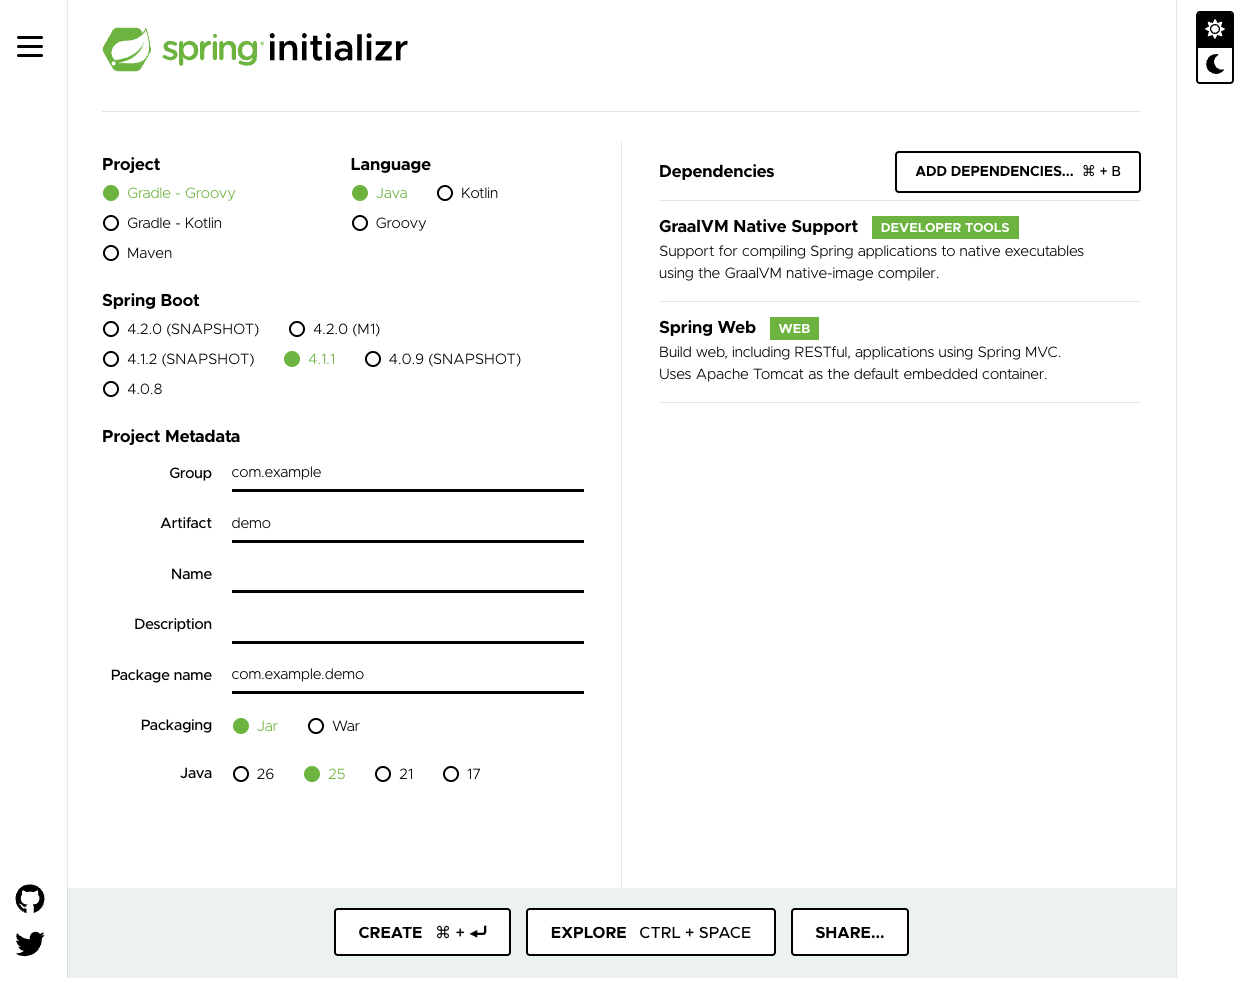
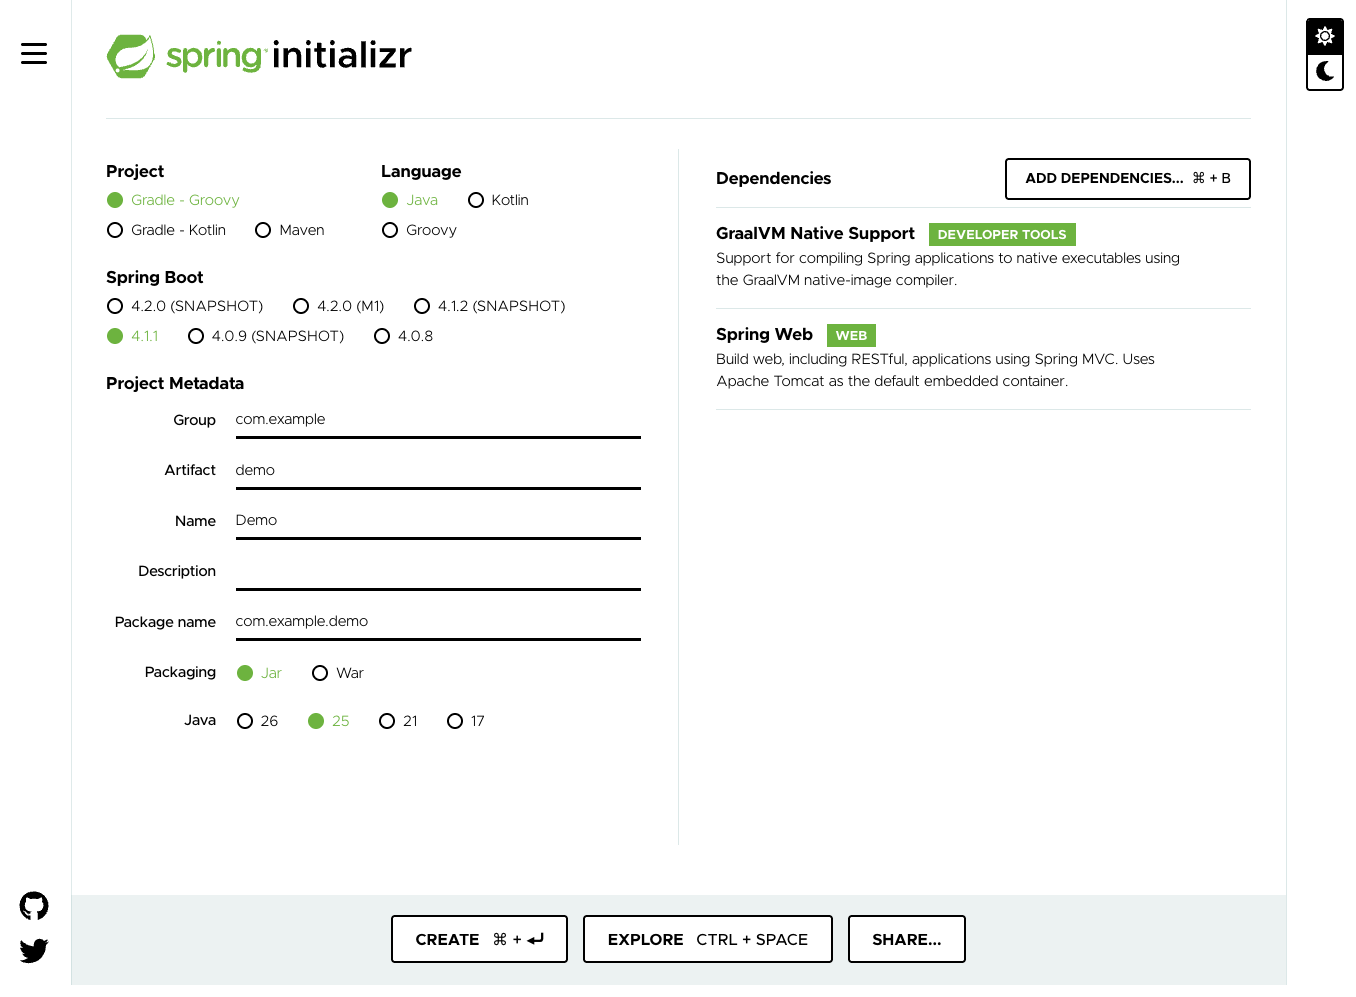
lab-1 content updates

diff --git a/labs/01-first-lab/workshop/content/05-run-app-as-native-image.md b/labs/01-first-lab/workshop/content/05-run-app-as-native-image.md
@@ -24,23 +24,23 @@ Build resources:
 SLF4J(W): No SLF4J providers were found.
 SLF4J(W): Defaulting to no-operation (NOP) logger implementation
 SLF4J(W): See https://www.slf4j.org/codes.html#noProviders for further details.
-[2/8] Performing analysis...  [******]                                                                 (288.0s @ 1.91GB)
-   19,162 types,  28,835 fields, and  88,980 methods found reachable
+[2/8] Performing analysis...  [*****]                                                                  (176.6s @ 1.90GB)
+   19,162 types,  28,835 fields, and  88,979 methods found reachable
     7,183 types,   3,727 fields, and  15,184 methods registered for reflection
       136 types,     229 fields, and     122 methods registered for JNI access
         0 downcalls and 0 upcalls registered for foreign access
         4 native libraries: dl, pthread, rt, z
-[3/8] Building universe...                                                                              (38.2s @ 2.22GB)
-[4/8] Parsing methods...      [*****]                                                                   (26.1s @ 2.40GB)
-[5/8] Inlining methods...     [***]                                                                     (20.0s @ 2.66GB)
-[6/8] Compiling methods...    [*****************]                                                      (303.1s @ 2.22GB)
-[7/8] Laying out methods...   [*****]                                                                   (29.1s @ 2.97GB)
-[8/8] Creating image...       [*****]                                                                   (25.4s @ 3.32GB)
+[3/8] Building universe...                                                                              (21.5s @ 2.14GB)
+[4/8] Parsing methods...      [****]                                                                    (16.6s @ 2.35GB)
+[5/8] Inlining methods...     [***]                                                                     (13.1s @ 2.58GB)
+[6/8] Compiling methods...    [**********]                                                             (112.4s @ 2.33GB)
+[7/8] Laying out methods...   [****]                                                                    (17.7s @ 2.97GB)
+[8/8] Creating image...       [****]                                                                    (14.3s @ 3.41GB)
 ...
-Finished generating 'demo' in 12m 49s.
+Finished generating 'demo' in 6m 39s.
 [native-image-plugin] Native Image written to: /home/eduk8s/demo/build/native/nativeCompile
 
-BUILD SUCCESSFUL in 13m 26s
+BUILD SUCCESSFUL in 7m 3s
 ...
 ```
 
@@ -55,7 +55,7 @@ In the upper terminal, execute this command:
 Check the application startup time again. Notice that this time, the native application started _significantly faster_:
 
 ```
-Started DemoApplication in 0.054 seconds (process running for 0.096)
+Started DemoApplication in 0.114 seconds (process running for 0.124)
 ```
 
 Once again, verify that the application is behaving correctly. In the lower terminal, request the web page and check that your application still says "hello":

diff --git a/labs/01-first-lab/workshop/content/03-run-app-on-jvm.md b/labs/01-first-lab/workshop/content/03-run-app-on-jvm.md
@@ -17,7 +17,7 @@ name: Terminal
 Within a minute, you should see that the application has started. You'll know the application has started when you see the text containing the startup time. In the below example, it took about 0.7 seconds for the application to startup. This does _not_ include the compile and download times - just the application startup time:
 
 ```console
-2023-06-29T00:59:24.760Z  INFO 1561 --- [           main] com.example.demo.DemoApplication         : Started DemoApplication in 0.734 seconds (process running for 0.881)
+2026-09-04T08:43:18.182Z  INFO 1387 --- [Demo] [           main] com.example.demo.DemoApplication         : Started DemoApplication in 0.734 seconds (process running for 0.881)
 ```
 
 Make a note of how long it took the application to start. We'll use this information in a couple of minutes.

diff --git a/labs/01-first-lab/workshop/content/04-install-native-build-tools.md b/labs/01-first-lab/workshop/content/04-install-native-build-tools.md
@@ -40,14 +40,12 @@ We'll choose this one and install the latest Java 25 version available:
 [~/demo] $ sdk install java 25.0.4.r25-nik
 ```
 
-The install should take a couple of minutes after which you will be asked if you wish to set the newly installed JDK as the default. Select `y` and hit enter.
+The install should take a couple of minutes after which the newly installed JDK should be set as the default.
 
 ```console
 ...
 Installing: java 25.0.4.r25-nik
 Done installing!
-
-Do you want java 25.0.4.r25-nik to be set as default? (Y/n): y
 
 Setting java 25.0.4.r25-nik as default.
 ```

diff --git a/labs/01-first-lab/workshop/content/06-run-app-using-buildpack.md b/labs/01-first-lab/workshop/content/06-run-app-using-buildpack.md
@@ -26,10 +26,11 @@ You'll know the build is complete when you see output similar to the following:
 
 ```console
 ...
-   [creator]     [7/7] Creating image...                                         (32.5s @ 2.31GB)
+   [creator]     [8/8] Creating image...       [*****]                           (23.5s @ 3.49GB)
 ...
 Successfully built image 'docker.io/library/demo:0.0.1-SNAPSHOT'
-BUILD SUCCESSFUL in 2m 23s
+
+BUILD SUCCESSFUL in 8m 47s
 ```
 
 Once the build is complete, running the resulting OCI image is quite easy and the startup time is very fast, as you can see by the output:

diff --git a/labs/01-first-lab/workshop/content/01-initializr.md b/labs/01-first-lab/workshop/content/01-initializr.md
@@ -7,7 +7,7 @@ We'll start by generating a complete codebase that's Native-Image-ready. To star
 You don't need to make any changes on the _Project_,
 _Language_, or _Spring Boot_ sections of the Initializr web page.
 
-In the _Project Metadata_ section, change the **Java** version to **25**. This
+In the _Project Metadata_ section, set the name to **Demo** and change the **Java** version to **25**. This version
 matches the GraalVM distribution we'll install in a later step — the project
 won't build correctly on the JVM version the Initializr defaults to otherwise.
 
